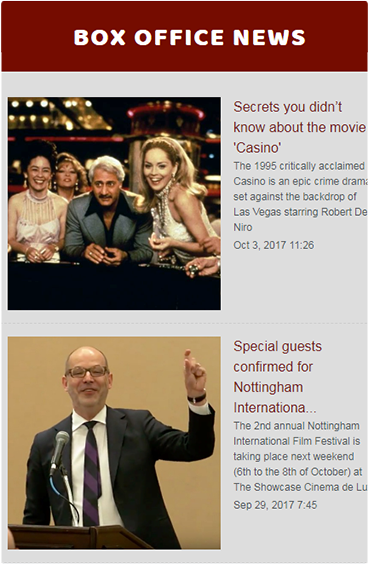
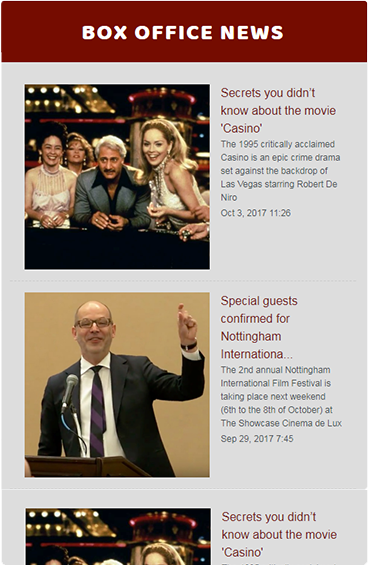
slider done

diff --git a/css/style.css b/css/style.css
@@ -1795,7 +1795,7 @@ input.normalInputSize {
 
 /******************************************************************************
 
-							FEEDWIND LANDING PAGE STYLES
+FEEDWIND LANDING PAGE STYLES
 
 ****************************************************************************/
 
@@ -2054,7 +2054,7 @@ a.greenRoundedBtn {
     -moz-border-radius: 3px;
     -webkit-border-radius: 3px;
     /*border-radius: 45px;
-	-moz-border-radius: 45px;*/
+-moz-border-radius: 45px;*/
     font-size: 16px;
     font-weight: 700;
     text-align: center;
@@ -2404,14 +2404,14 @@ p#codePart {
 
 /***************************** *************************************************
 
-							FEEDWIND LANDING PAGE STYLES ENDS
+FEEDWIND LANDING PAGE STYLES ENDS
 
 ****************************************************************************/
 
 
 /***************************** *************************************************
 
-							MEDIA QUERIES STYLES
+MEDIA QUERIES STYLES
 
 ****************************************************************************/
 
@@ -2515,9 +2515,9 @@ p#codePart {
     }
     header nav.active {
         /*background-color: #176fe6;
-	margin-left:-24px;
-	margin-right:-24px;
-	margin-top:-10px;*/
+margin-left:-24px;
+margin-right:-24px;
+margin-top:-10px;*/
     }
     header nav ul li {
         display: block;
@@ -2880,8 +2880,8 @@ html input[disabled] {
     border-radius: 50px;
     border: 2px solid rgba(46, 126, 200, 0.9);
     /*background:  rgba(46,126,200,0.9);
-	color: white;
-	*/
+color: white;
+*/
     padding: 10px 35px;
     font-size: 18px;
     color: rgba(46, 126, 200, 1);
@@ -3358,8 +3358,8 @@ input#branding.notPro + label {
 /*
 input#branding.notPro ,
 input#branding.notPro + label {
-   pointer-events: none;
-   cursor:not-allowed !IMPORTANT;
+pointer-events: none;
+cursor:not-allowed !IMPORTANT;
 }*/
 
 .fw-green-box-shadow {
@@ -3476,10 +3476,10 @@ input#branding.notPro + label {
 }
 .blurred-content {
     /* -webkit-filter: blur(5px);
-    -moz-filter: blur(5px);
-    -o-filter: blur(5px);
-    -ms-filter: blur(5px);
-    filter: blur(5px);*/
+-moz-filter: blur(5px);
+-o-filter: blur(5px);
+-ms-filter: blur(5px);
+filter: blur(5px);*/
     cursor: not-allowed !important;
     color: #ced2d6;
 }
@@ -3660,6 +3660,7 @@ input#branding.notPro + label {
     transform: translateY(-50%) translateX(-50%) scale(0.3);
     transition: all 1s ease;
     opacity: 0;
+    cursor: pointer;
     z-index: -1;
 }
 .cascade-slider_item img {
@@ -3727,6 +3728,25 @@ div#feature-slider {
 #feature-slider #fb-slider h3 {
     color: #3b5998;
 }
+.cascade-slider_item:after {
+    content: '';
+    position: absolute;
+    width: 100%;
+    height: 11px;
+    background-color: #00000029;
+    bottom: -32px;
+    -webkit-filter: blur(5px);
+    -moz-filter: blur(5px);
+    -o-filter: blur(5px);
+    -ms-filter: blur(5px);
+    filter: blur(3px);
+    border-radius: 50%;
+    text-align: center;
+    left: 0;
+    margin: 0 auto;
+    /* padding: 0 25%; */
+    border: 4px solid white;
+}
 @media screen and (max-width:768px) {
     .cascade-slider_item.next {
         left: 85%;
@@ -3739,6 +3759,29 @@ div#feature-slider {
     }
     .fw-opt-hero-banner .owl-carousel p {
         font-size: 18px;
+    }
+}
+@media screen and (max-width:678px) {
+    .cascade-slider_item.next {
+        right: -30%;
+    }
+    .cascade-slider_item.prev {
+        left: -15%;
+    }
+}
+@media screen and (max-width:570px) {
+    .cascade-slider_item.prev,
+    .cascade-slider_item.next {
+        transform: translateY(-50%) translateX(50%) scale(0);
+        display: none;
+    }
+    .cascade-slider_item.now {
+        display: block;
+    }
+}
+@media screen and (max-width:420px) {
+    .cascade-slider_item.now {
+        transform: translateY(-50%) translateX(-50%) scale(0.8);
     }
 }
 

diff --git a/feedwind-optimize-homepage.html b/feedwind-optimize-homepage.html
@@ -1681,22 +1681,22 @@ Create podcast widget <i class='fa fa-external-link'></i></a></div>" data-origin
 
             <div class="cascade-slider_container clearfix" id="feature-slider">
                 <div class="cascade-slider_slides">
-                    <div class="cascade-slider_item" id="rss-slider">
+                    <div class="cascade-slider_item" data-nav="rss-slider">
                         <h3>RSS</h3>
                         <img src="images/rss-widget.png"></div>
-                    <div class="cascade-slider_item" id="fb-slider">
+                    <div class="cascade-slider_item" data-nav="fb-slider">
                         <h3>Facebook</h3>
                         <img src="images/facebook-widget.png">
                     </div>
-                    <div class="cascade-slider_item" id="gcal-slider">
+                    <div class="cascade-slider_item" data-nav="gcal-slider">
                         <h3>Google Calendar</h3>
                         <img src="images/google-calendar-widget-example.png"></div>
 
                 </div>
                 <ol class="cascade-slider_nav">
-                    <li class="cascade-slider_dot cur"></li>
-                    <li class="cascade-slider_dot "></li>
-                    <li class="cascade-slider_dot"></li>
+                    <li id="rss-slider" class="cascade-slider_dot cur"></li>
+                    <li id="fb-slider" class="cascade-slider_dot "></li>
+                    <li id="gcal-slider" class="cascade-slider_dot"></li>
 
                 </ol>
             </div>

diff --git a/js/common.js b/js/common.js
@@ -24,7 +24,18 @@ $(document).ready(function () {
             $('.fw-steps').html(steps);
         }
     }
+    $('.cascade-slider_nav li').click(function (e) {
+        e.preventDefault();
+    })
 
     $('#feature-slider').cascadeSlider({});
+
+    // Manually added on thumbnail click to rotate
+    $('.cascade-slider_slides .cascade-slider_item').click(function () {
+        var cascadeSlideNav = $(this).attr('data-nav');
+        //console.log(cascadeSlideNav);
+        $("#" + cascadeSlideNav).click();
+    });
+
 
 });
